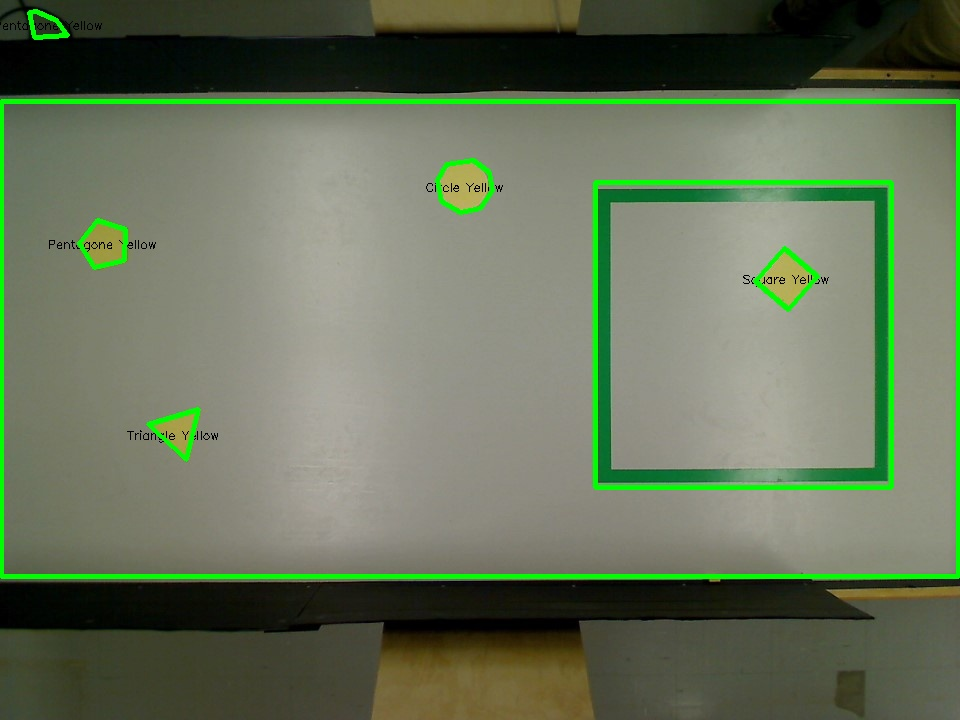
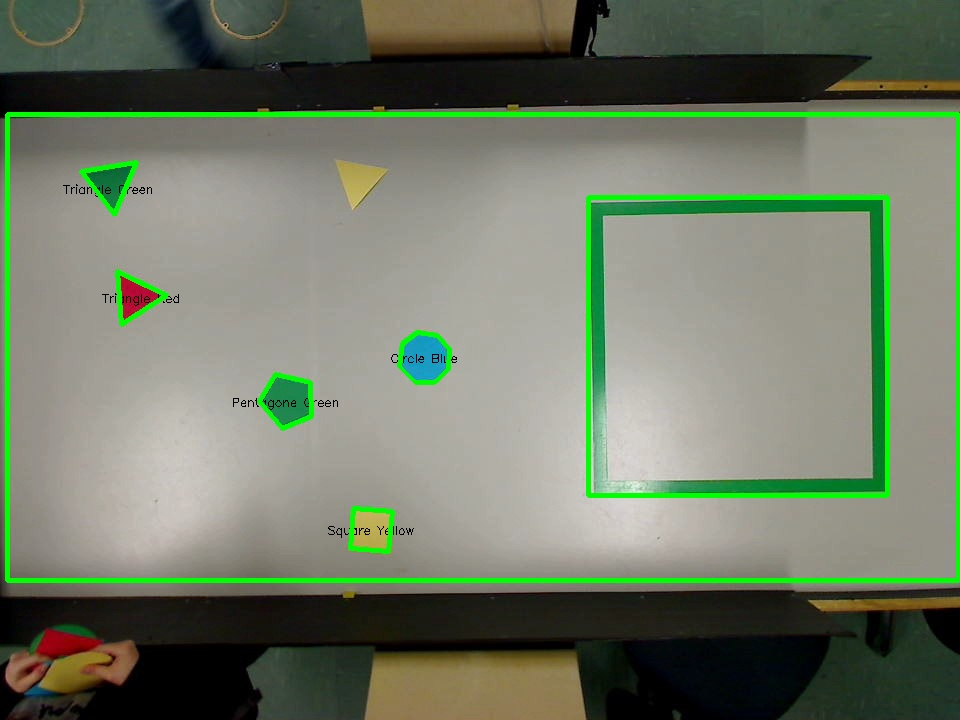
Forme exérieur à la carte retiré

diff --git a/Client/BaseStation/WorldVision/map.py b/Client/BaseStation/WorldVision/map.py
@@ -1,6 +1,7 @@
 import cv2
 import numpy as np
 from shape import Shape
+from allShapes import Square
 import copy
 
 class Map:
@@ -59,10 +60,9 @@ class Map:
                 minX = corner[0]
             if(corner[1] < minY):
                 minY = corner[1]
-        self.limit = np.array([[[minX,minY],[minX,maxY],[maxX, maxY],[maxX,minY]]], dtype=np.int32)
+        self.limit = Square("limit", np.array([[[minX,minY + 5],[minX,maxY - 5],[maxX, maxY - 5],[maxX,minY + 5]]], dtype=np.int32))
 
     def setShapesColor(self, mapImage):
-        HSVmapImage = cv2.cvtColor(mapImage,cv2.COLOR_BGR2HSV)
         for shape in self.__shapes:
             shape.setColor(copy.copy(mapImage))
 
@@ -92,12 +92,19 @@ class Map:
                     minX = corner[0]
                 if(corner[1] < minY):
                     minY = corner[1]
-            self.greenSquare = np.array([[[minX,minY],[minX,maxY],[maxX, maxY],[maxX,minY]]], dtype=np.int32)
+            self.greenSquare = Square("greenSquare", np.array([[[minX,minY],[minX,maxY],[maxX, maxY],[maxX,minY]]], dtype=np.int32))
             self.__shapes.remove(biggestShape)
 
     #TODO
     def deleteOutsiderShapes(self):
-        pass
+
+        shapesToDelete = []
+        for shape in self.__shapes:
+            if shape.isOutside(self.limit):
+                shapesToDelete.append(shape)
+
+        for shape in shapesToDelete:
+            self.__shapes.remove(shape)
 
 
     #TODO

diff --git a/Client/BaseStation/WorldVision/shape.py b/Client/BaseStation/WorldVision/shape.py
@@ -15,10 +15,11 @@ class Shape:
         self.geometricName = geometricName
         self.myColor = Color(np.uint8([[[0,255,255]]]), "Not defined")
 
+
     def __eq__(self, other):
         if other == None:
             return False
-        return cv2.contourArea(self.contour) == cv2.contourArea(other.contour)
+        return self.contour[0].item(0) == other.contour[0].item(0)
 
     def findCenterOfMass(self):
         moment = cv2.moments(self.contour)
@@ -60,6 +61,14 @@ class Shape:
     def getCornerCount(self):
         return len(self.contour)
 
+    def isOutside(self, limit):
+        limitMaxX, limitMaxY = limit.getMaxCorner()
+        limitMinX, limitMinY = limit.getMinCorner()
+        for corner in self.contour:
+            if corner.item(1) < limitMinY or corner.item(1) > limitMaxY:
+                return True
+        return False
+
     def asSimilarCenterOfMass(self, otherShape):
         myCenterOfMassX, myCenterOfMassY = self.findCenterOfMass()
         otherShapeCenterOfMassX, otherShapeCenterOfMassY = otherShape.findCenterOfMass()
@@ -68,9 +77,6 @@ class Shape:
 
         return False
 
-    def angle_cos(p0, p1, p2):
-        d1, d2 = (p0-p1).astype('float'), (p2-p1).astype('float')
-        return abs( np.dot(d1, d2) / np.sqrt( np.dot(d1, d1)*np.dot(d2, d2) ) )
 
     def setColor(self, mapImage):
         xCoordinate, yCoordinate, width, height = self.getBoundingRectangle()

diff --git a/Client/BaseStation/WorldVision/allShapes.py b/Client/BaseStation/WorldVision/allShapes.py
@@ -7,6 +7,23 @@ class Square(Shape):
 
     def __init__(self, geometricName, contour):
         Shape.__init__(self, geometricName, contour)
+        cornerList = []
+        self.minX = 1000
+        self.maxX = 0
+        self.minY = 1000
+        self.maxY = 0
+        contourCopy = contour[0]
+        for corner in contourCopy:
+            cornerList.append((corner.item(0), corner.item(1)))
+        for corner in cornerList:
+            if(corner[0] > self.maxX):
+                self.maxX = corner[0]
+            if(corner[1] > self.maxY):
+                self.maxY = corner[1]
+            if(corner[0] < self.minX):
+                self.minX = corner[0]
+            if(corner[1] < self.minY):
+                self.minY = corner[1]
 
     def __angleCos(self, p0, p1, p2):
         d1, d2 = (p0-p1).astype('float'), (p2-p1).astype('float')
@@ -18,6 +35,12 @@ class Square(Shape):
         max_cos = np.max([self.__angleCos( cntCopy[i], cntCopy[(i+1) % 4], cntCopy[(i+2) % 4] ) for i in xrange(4)])
         if max_cos < 0.1:
             return True
+
+    def getMaxCorner(self):
+        return self.maxX, self.maxY
+
+    def getMinCorner(self):
+        return self.minX, self.minY
 
 class Triangle(Shape):
 

diff --git a/Client/BaseStation/WorldVision/worldImage.py b/Client/BaseStation/WorldVision/worldImage.py
@@ -39,10 +39,8 @@ class WorldImage:
             cv2.putText(self.__mapImage, shape.getName()+ " " + shape.myColor.colorName, point, font, scale, (0,0,0), thickness, 8)
 
     def drawMapOnImage(self):
-        greenSquare = [self.__map.getGreenSquare()]
-        mapLimit = [self.__map.getMapLimit()]
         cv2.drawContours( self.__mapImage, self.__map.getContourList(), -1, (0, 255, 0), 3 )
-        cv2.drawContours( self.__mapImage, mapLimit, -1, (0, 255, 0), 3 )
-        cv2.drawContours( self.__mapImage, greenSquare, -1, (0, 255, 0), 3 )
+        cv2.drawContours( self.__mapImage, self.__map.getMapLimit().getContour(), -1, (0, 255, 0), 3 )
+        cv2.drawContours( self.__mapImage, self.__map.getGreenSquare().getContour(), -1, (0, 255, 0), 3 )
 
         return self.__mapImage

diff --git a/Client/BaseStation/WorldVisionTest/mainForTest.py b/Client/BaseStation/WorldVisionTest/mainForTest.py
@@ -9,7 +9,7 @@ if __name__ == '__main__':
 
 #while(True):
     #ret, frame = cap.read()
-    frame = cv2.imread('Images/Test3.jpg')
+    frame = cv2.imread('Images/Test4.jpg')
 
     geometricalImage = WorldImage(frame)
     geometricalImage.setMap()
